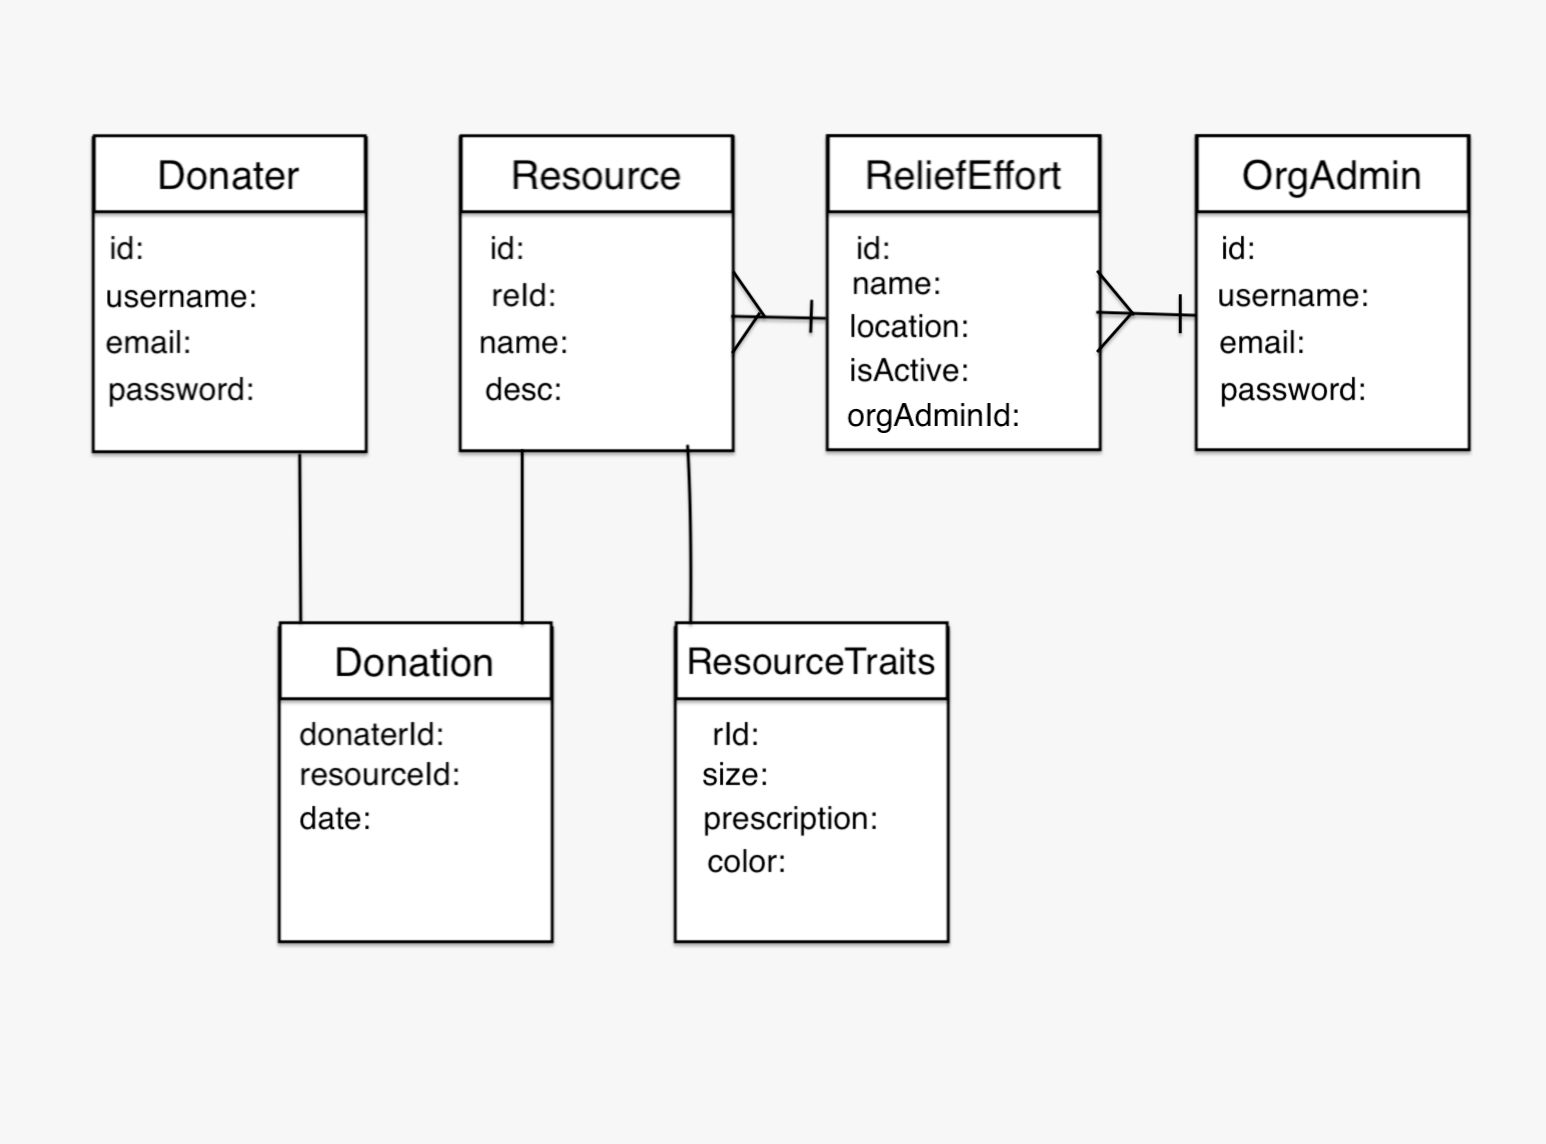
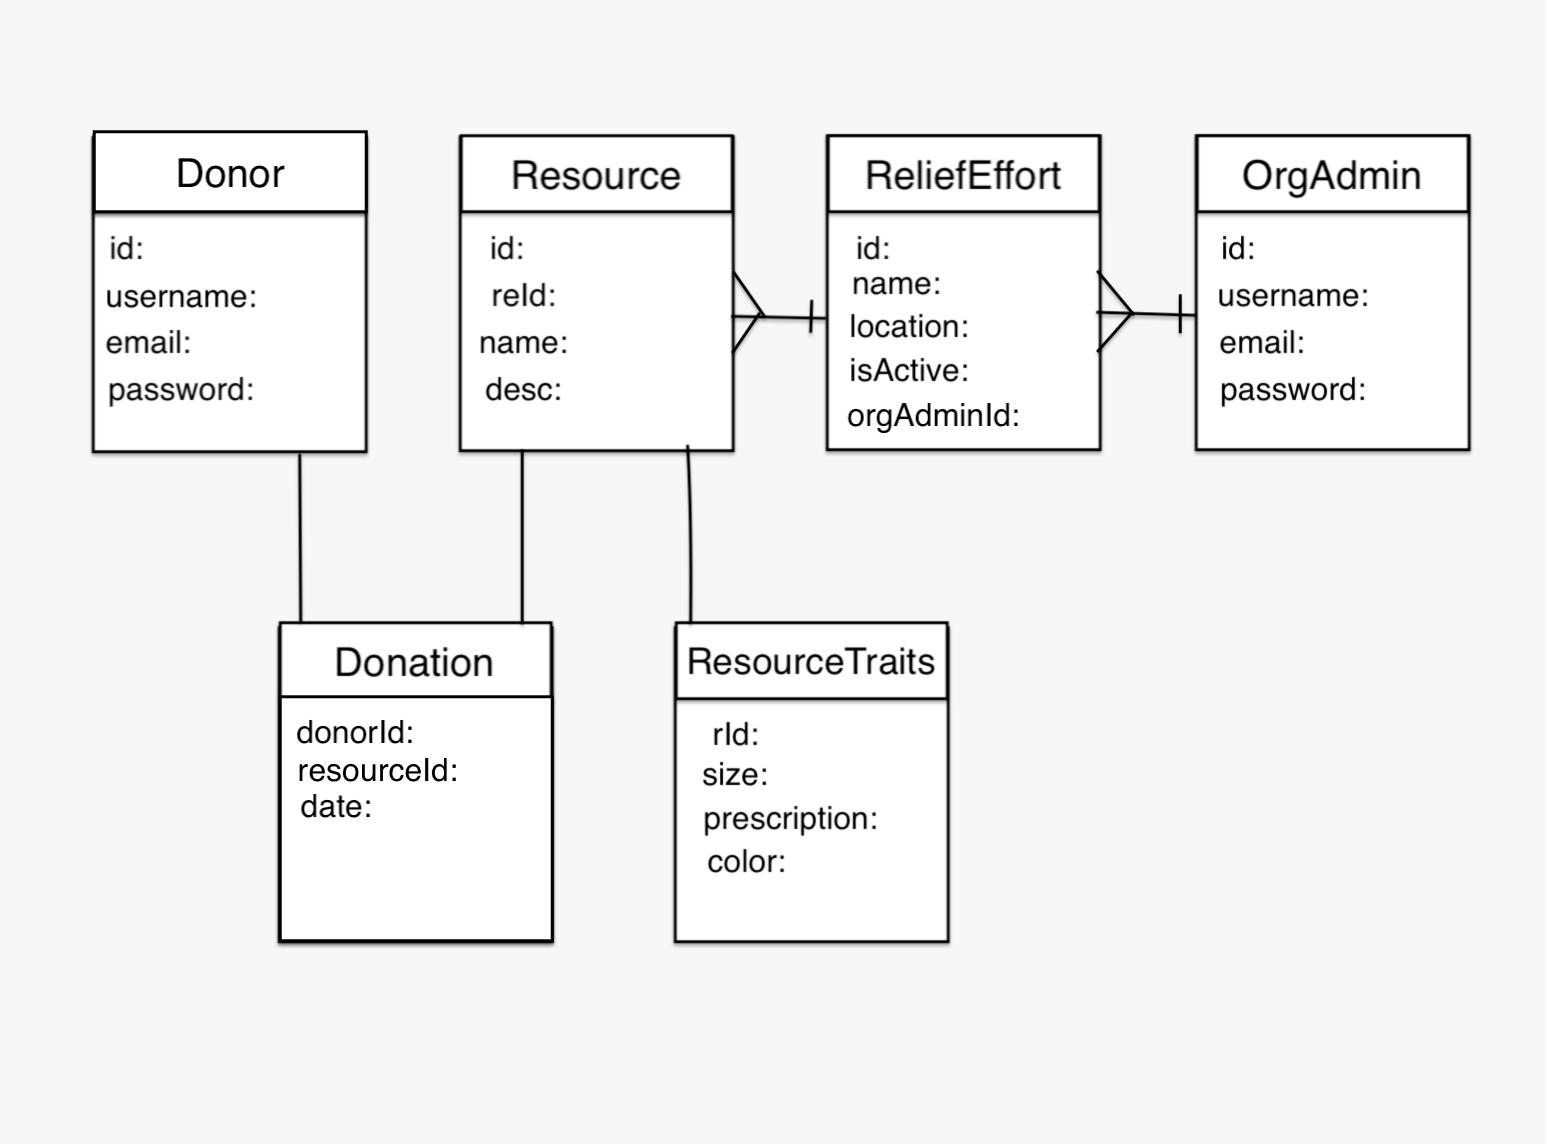
correct ERD, update MVP user stories

Changed region(s): [[0.1863, 0.5813, 0.3726, 0.7343], [0.0621, 0.0918, 0.2484, 0.2142], [0.1863, 0.7955, 0.3726, 0.826]]

diff --git a/README.md b/README.md
@@ -51,4 +51,9 @@ https://trello.com/b/I0vZ8yPP/project-4-planning
 
 ## MVP User Stories
 
+As an orgAdmin user, I should be able to create a relief effort with resources listed on it.
+As an orgAdmin user, I should be able to update (add, delete, update) resources on a relief effort.
+As a donor, I should be able to look at a relief effort and see what resources are still needed.
+As a donor, I should be able to fulfill resource needs and see the relief effort page update.
+
 ## Stretch Goals User Stories
